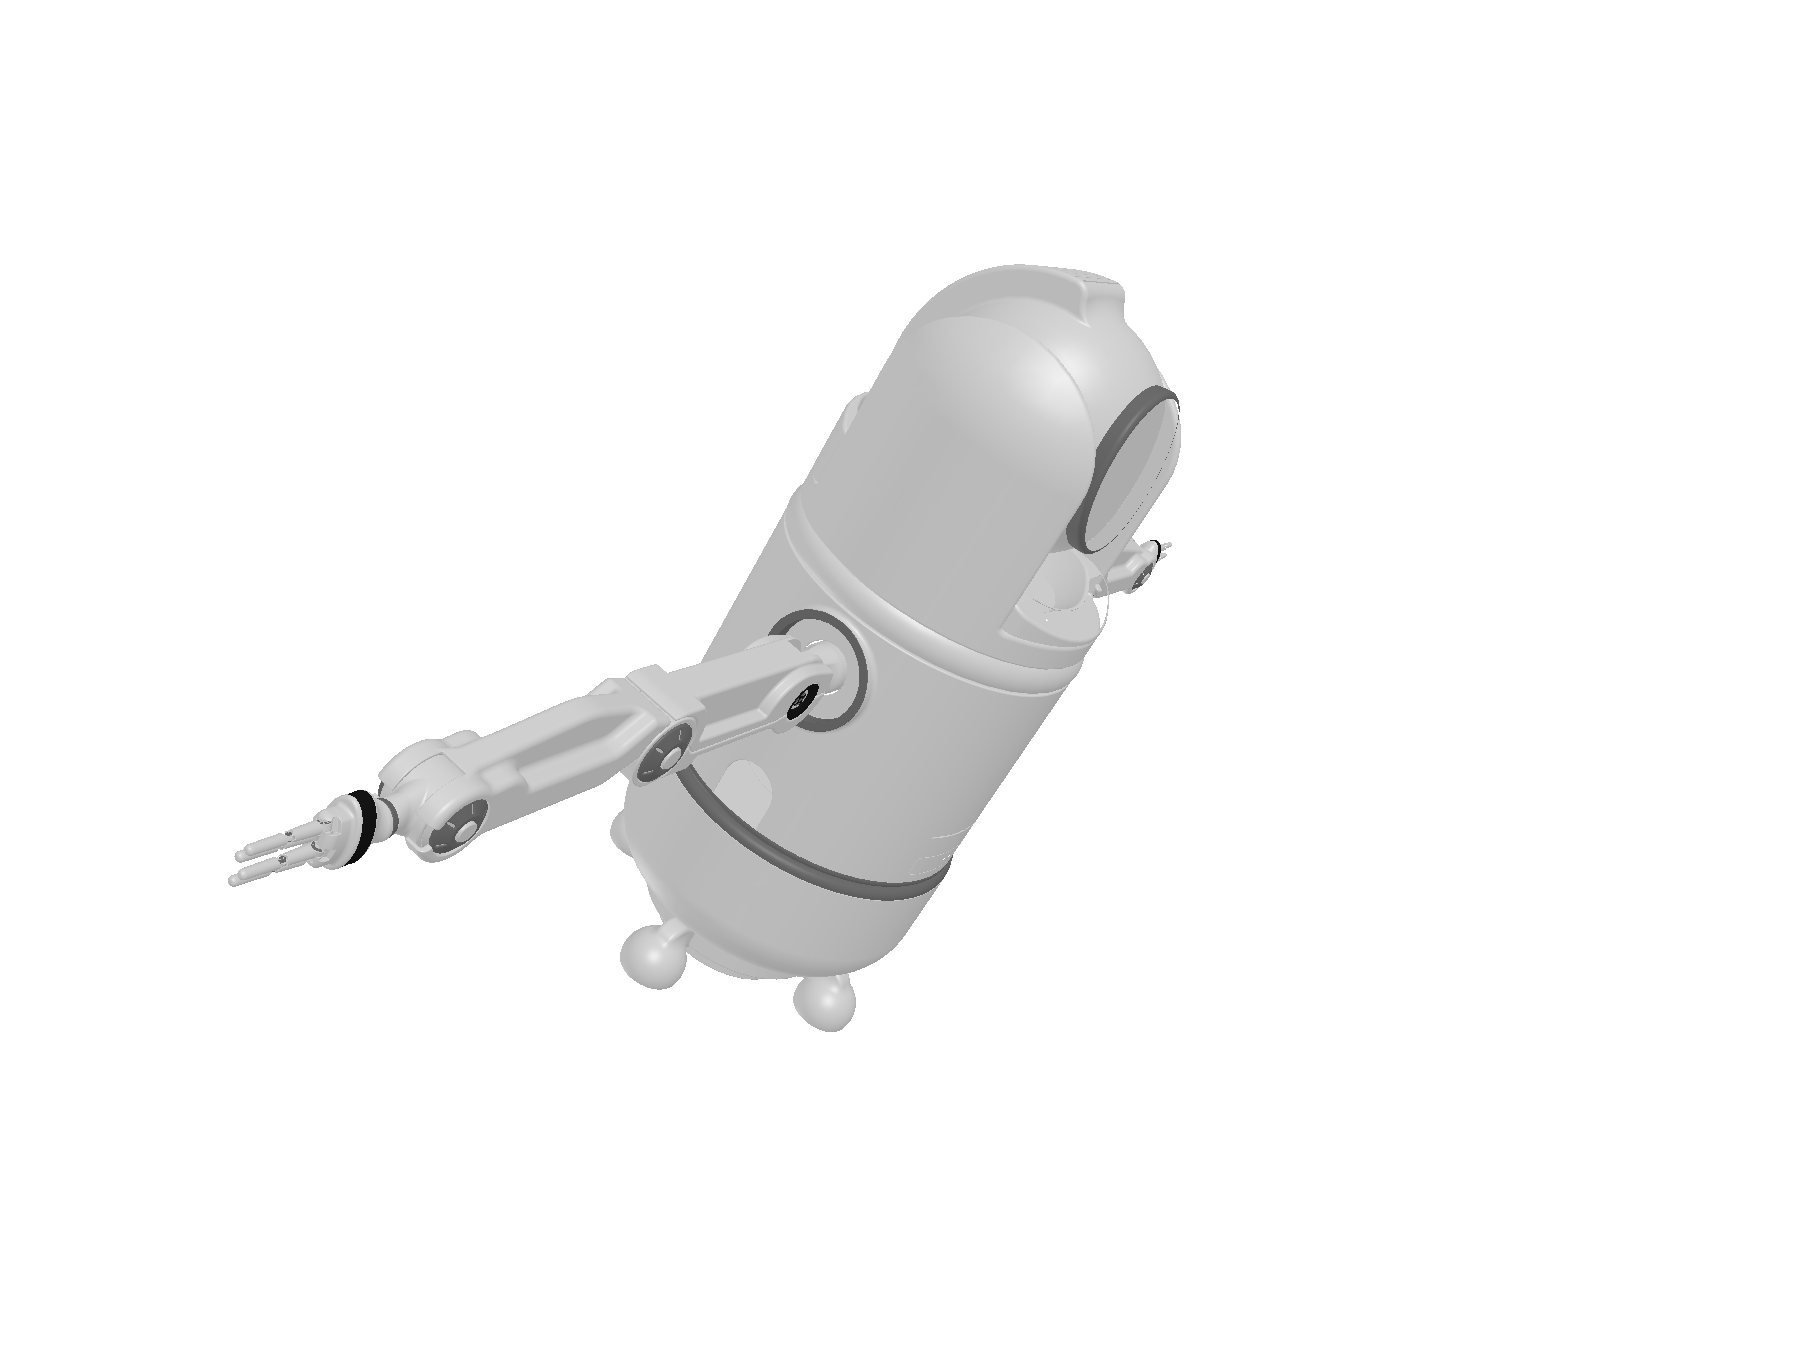
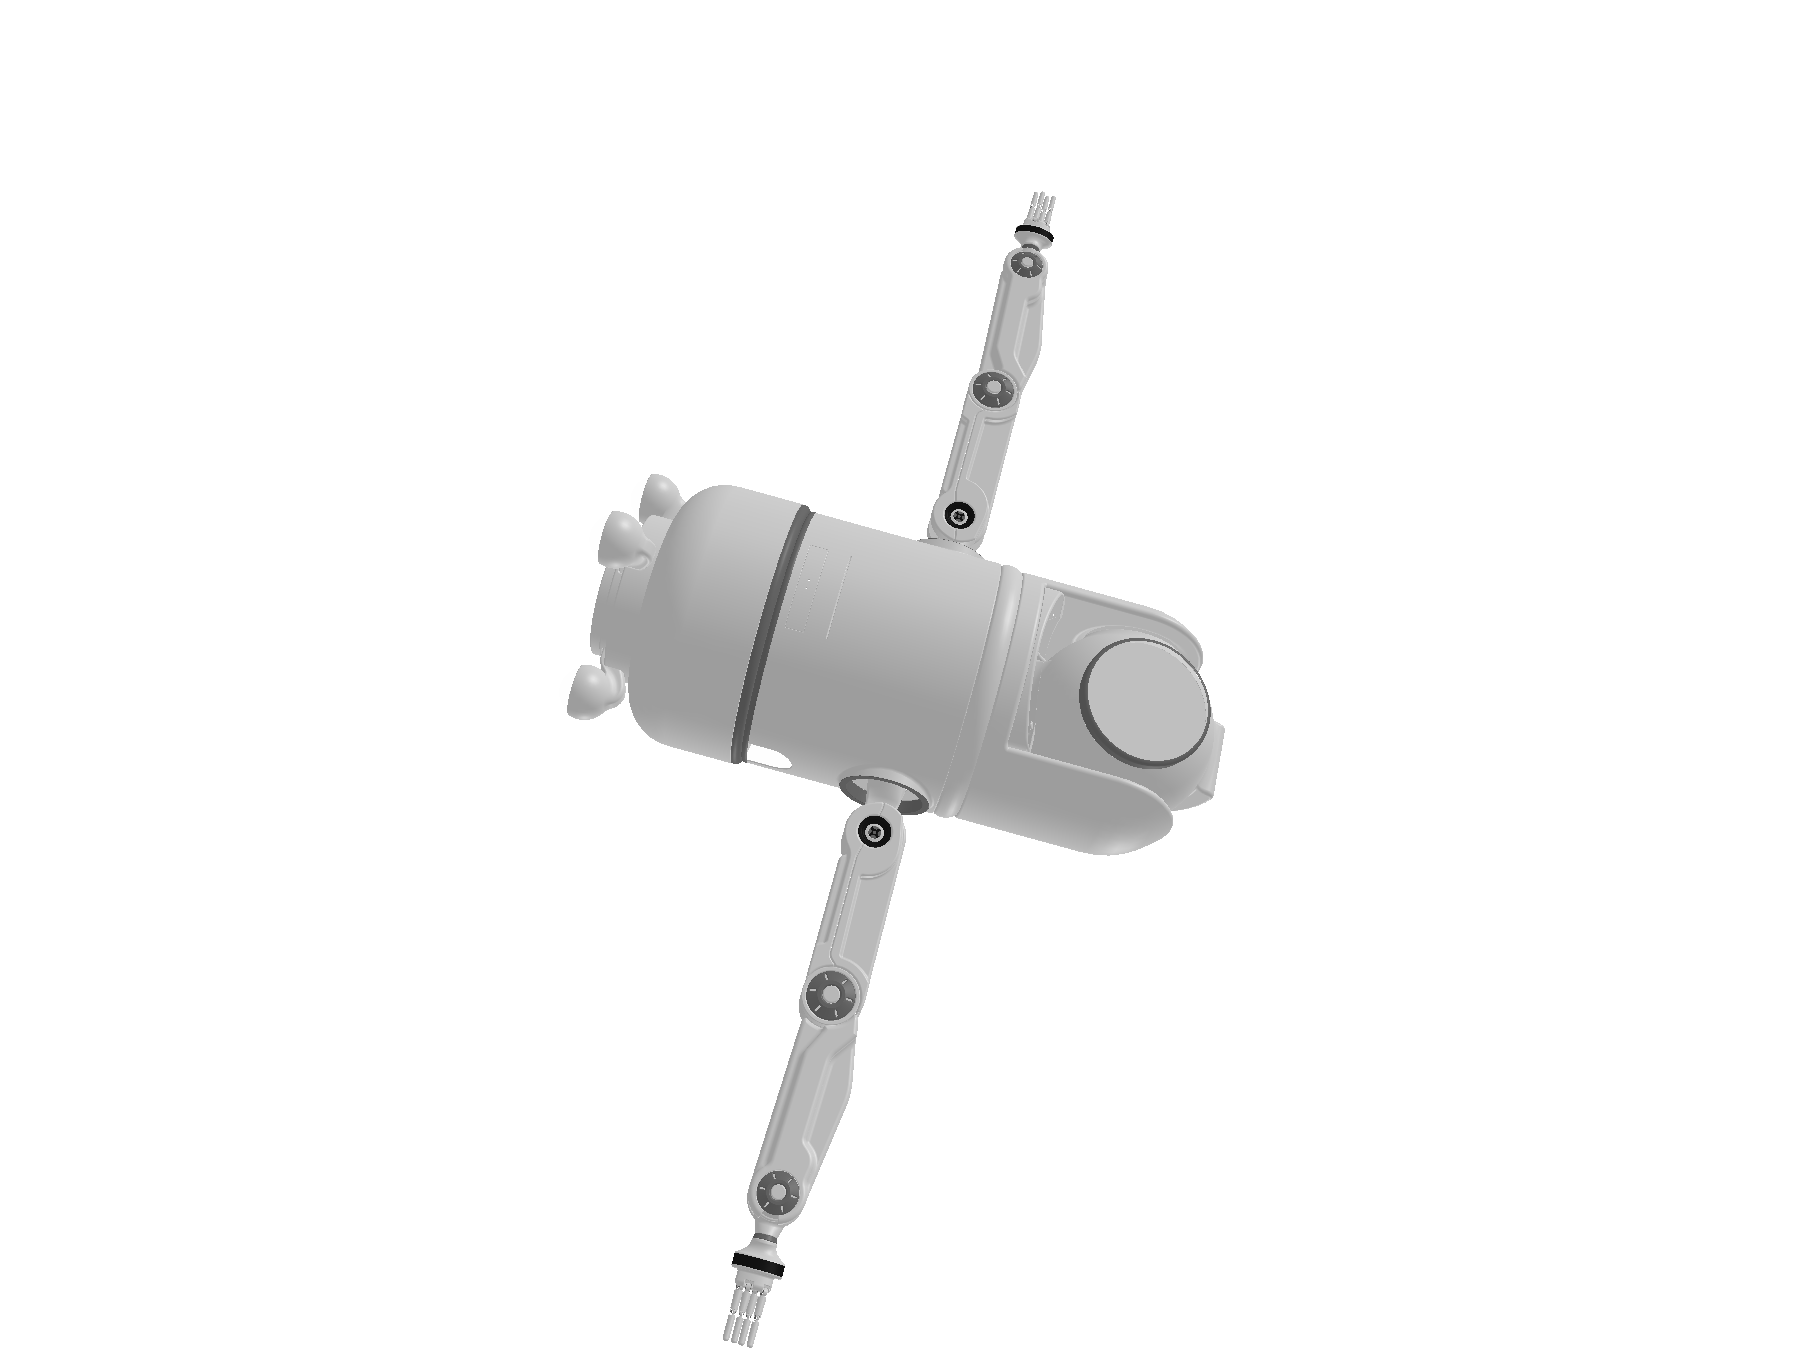
close after screenshot

Changed region(s): [[0.1244, 0.1244, 0.6844, 0.9956]]

diff --git a/pyglet-poc.py b/pyglet-poc.py
@@ -8,7 +8,7 @@ tri_scene = tri_scene.apply_transform(
     trimesh.transformations.random_rotation_matrix())
 
 # Trimesh uses pyglet window to whow the 3D Model
-tri_scene.show()
+# tri_scene.show()
 
 # Using the builtin function to get image bytes
 png = tri_scene.save_image()
